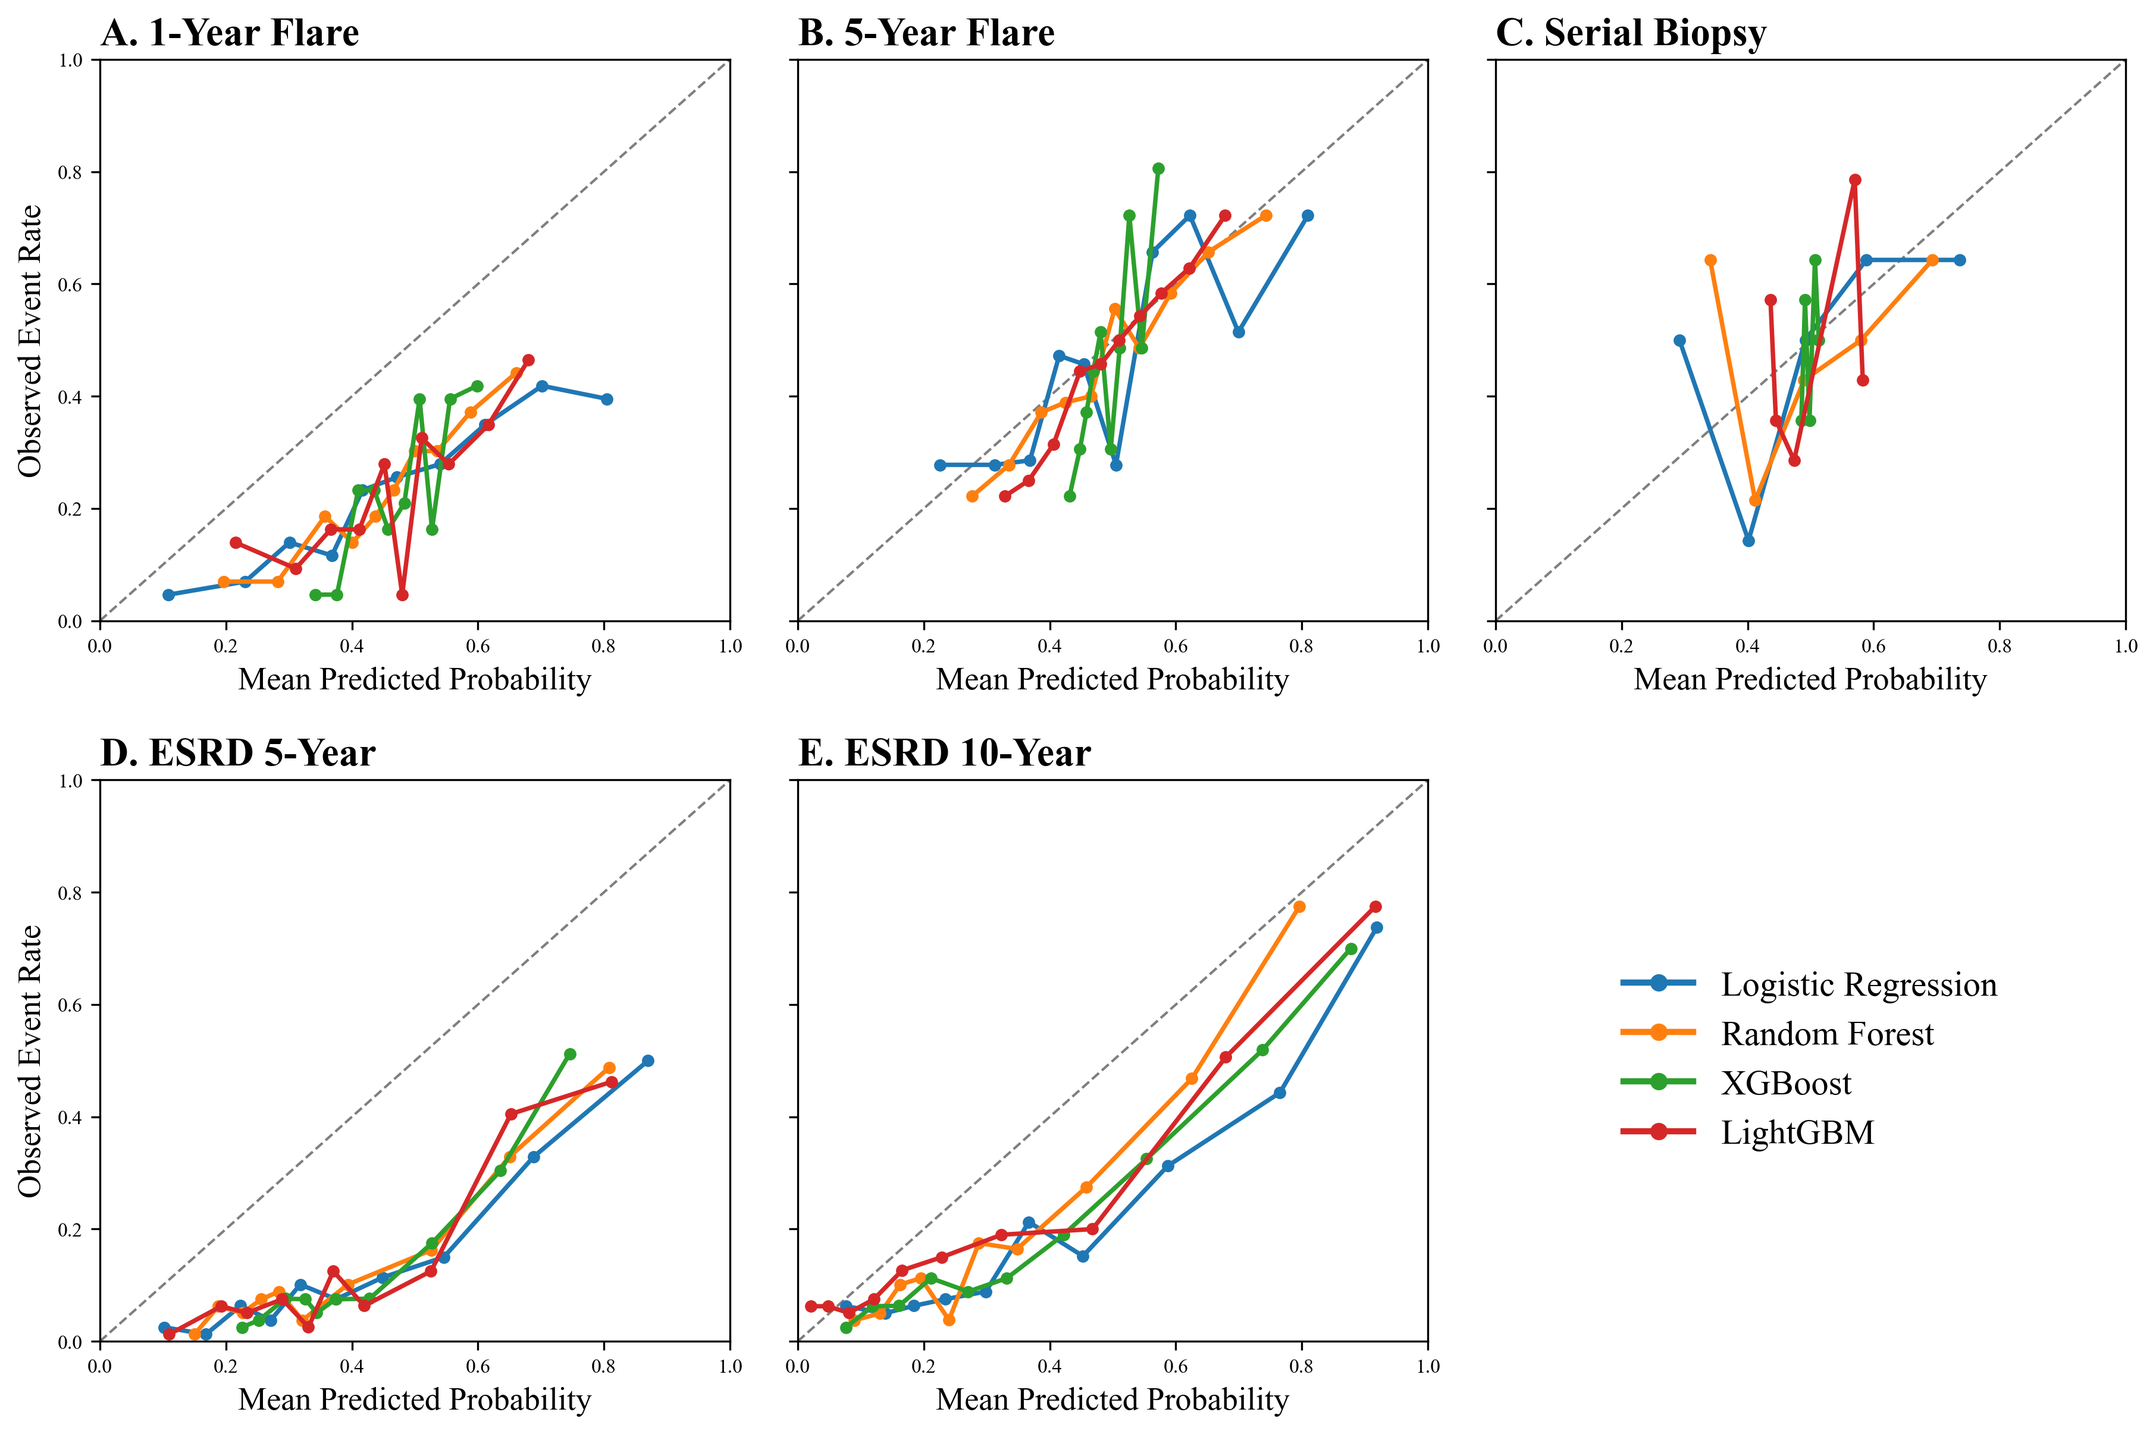
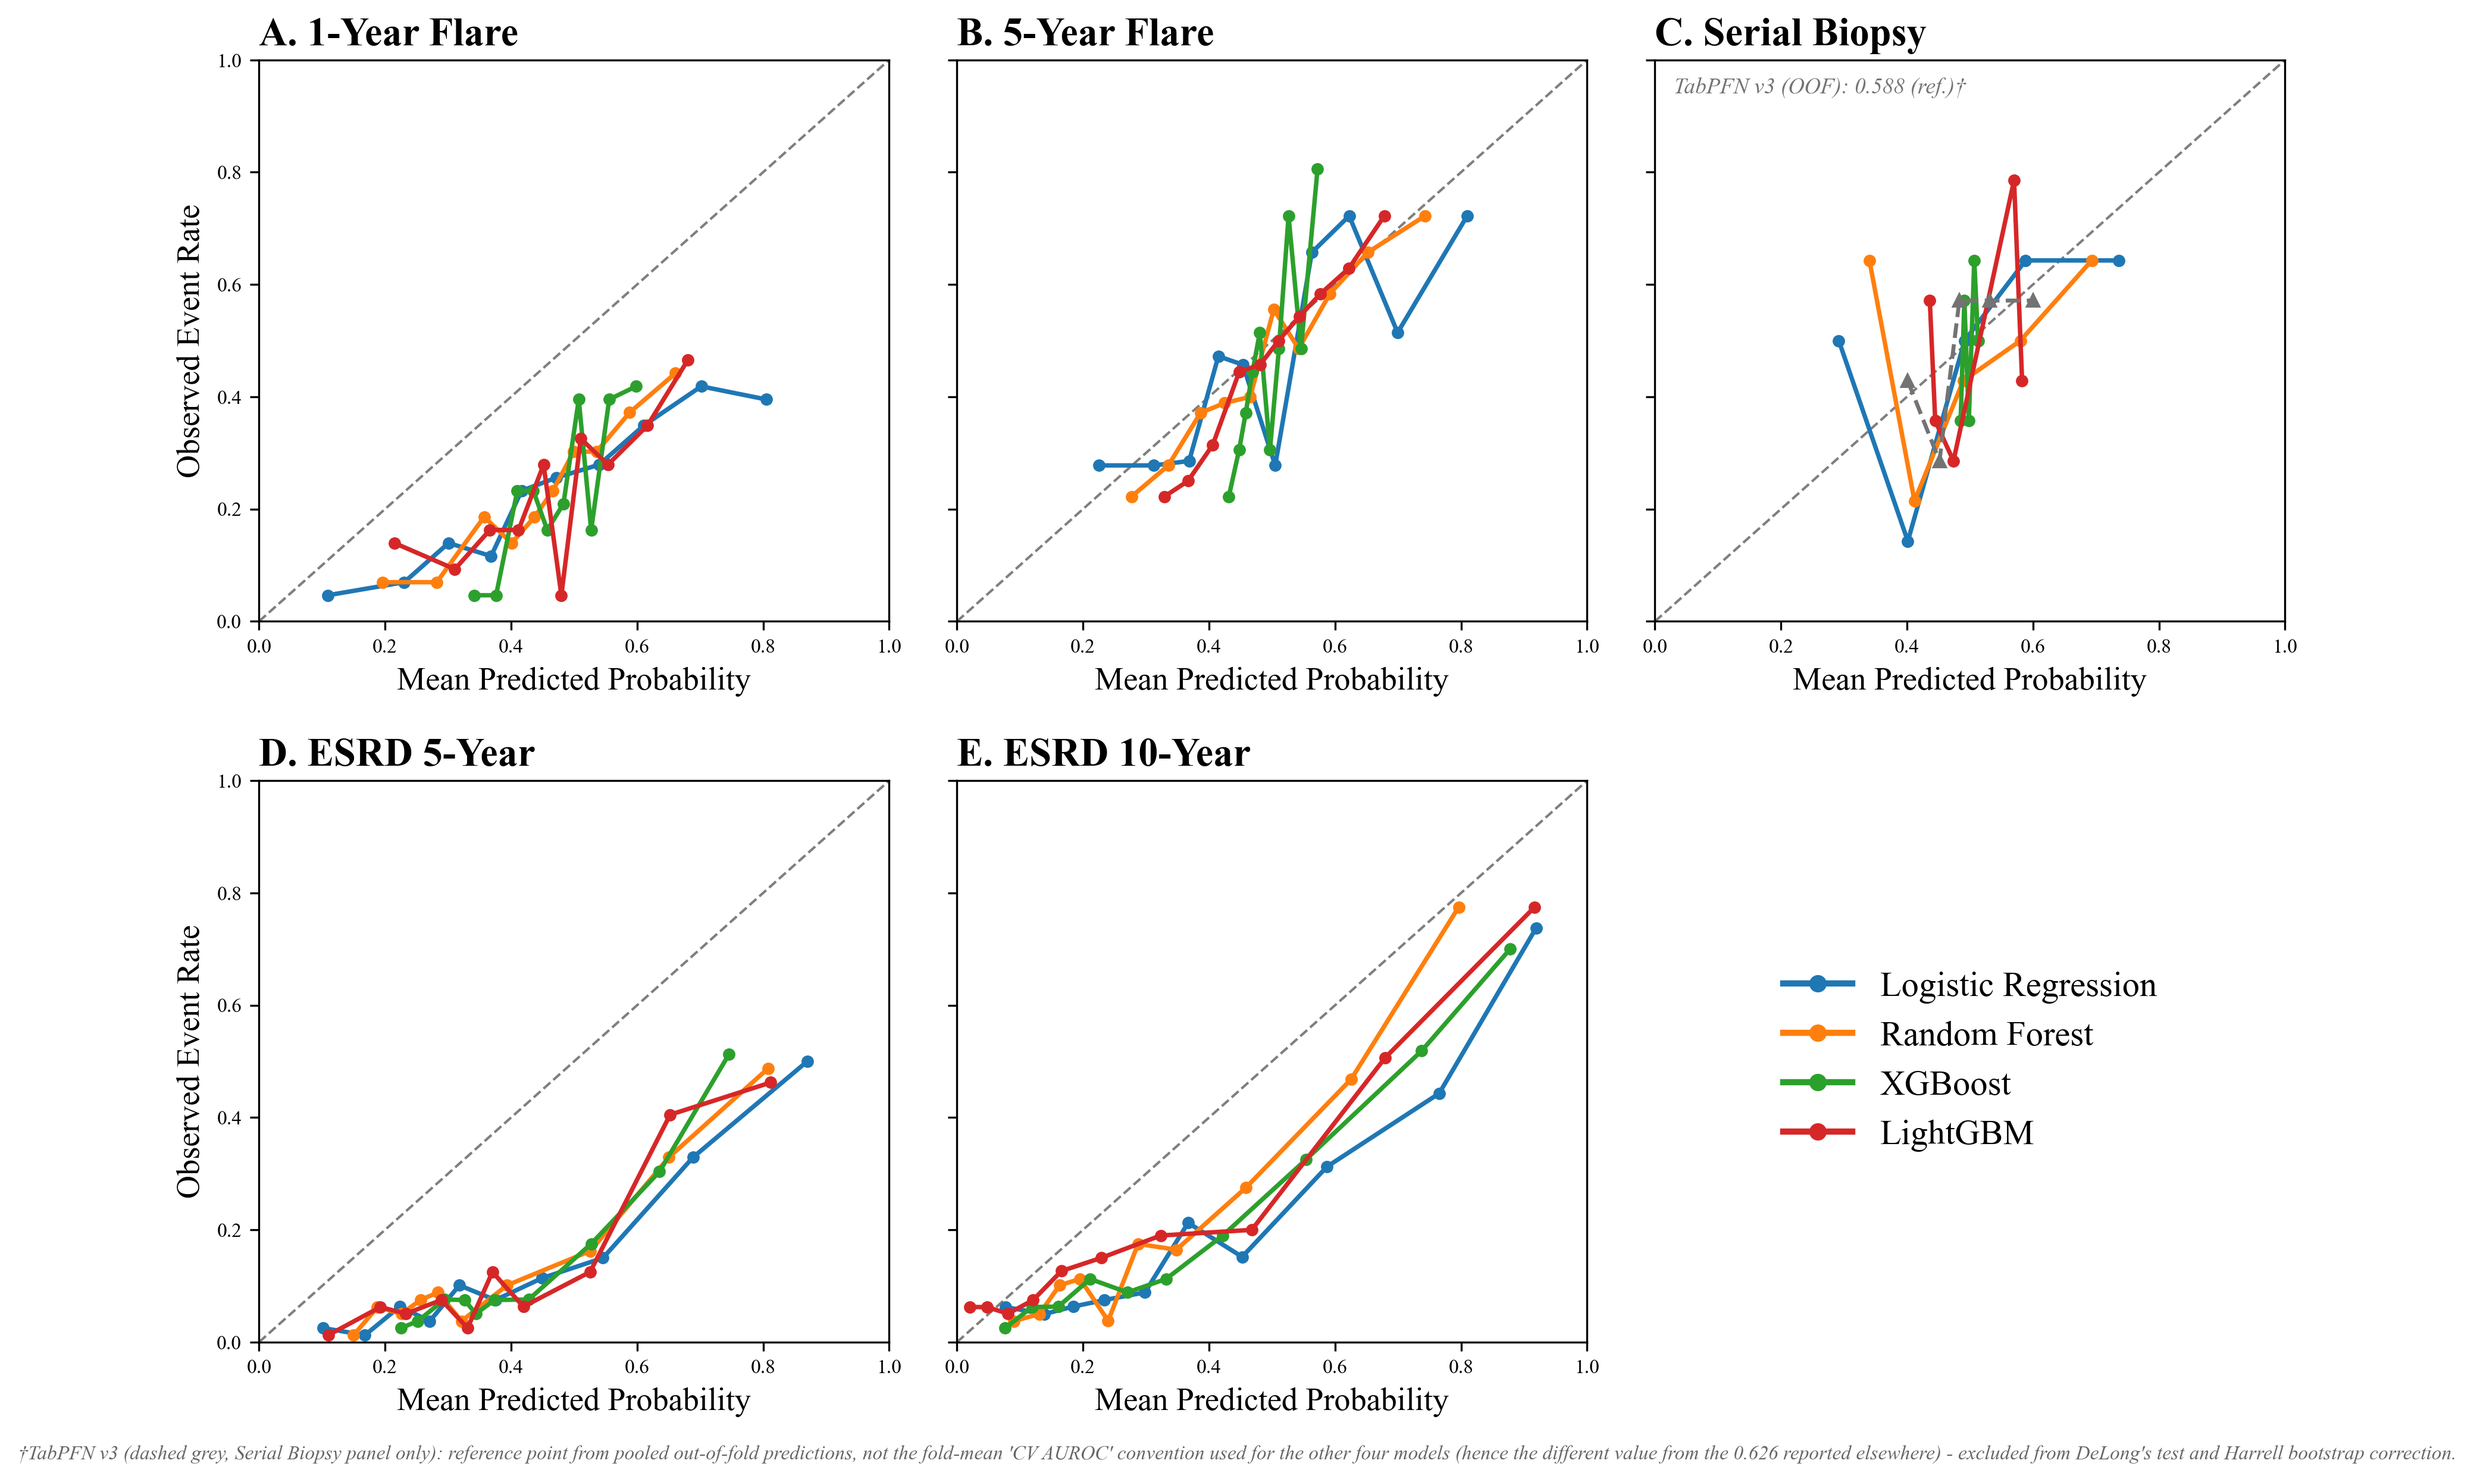
Add TabPFN v3 reference curve to Serial Biopsy panel (ROC + calibration)
Dashed grey, triangle markers, distinct from the 4 solid-colour model
lines. Built from pooled OOF predictions (the only cohort with raw
TabPFN v3 predictions retained) - labelled explicitly as OOF since this
differs from the fold-mean 'CV AUROC' convention used for the other four
models (0.588 here vs 0.626 reported in Methods/Results docs), with a
footnote explaining why. Also footnoted as excluded from DeLong's test
and Harrell bootstrap correction, consistent with its italic/reference
treatment in Tables 1 and 2.

diff --git a/src/16_roc_calibration_plots.py b/src/16_roc_calibration_plots.py
@@ -248,6 +248,31 @@ print("  Calibration_curves: decile-binned mean predicted prob vs observed event
 print("  OOF_predictions: raw out-of-fold probability + true label per sample, per model per cohort")
 print("  (for full flexibility if you want to build your own curves/thresholds)")
 
+# TabPFN v3: reference curves for Serial Biopsy only - the only cohort for
+# which raw OOF predictions were retained (src/16_tabpfn_v3_benchmark.py).
+# Excluded from DeLong's test and Harrell bootstrap (see Methods Section
+# 10.1), so it is drawn distinctly (dashed, grey) rather than as a normal
+# competitor, and is not added to the shared model-colour legend.
+TABPFN_COLOR = "0.45"
+tabpfn_serial = None
+try:
+    oof_tabpfn = pd.read_excel(f"{OUT}/tabpfn_v3_oof_predictions.xlsx")
+    oof_tabpfn = oof_tabpfn[oof_tabpfn["Cohort"] == "serial_biopsy"].sort_values("Sample_Index")
+    if len(oof_tabpfn):
+        y_true = oof_tabpfn["True_Label"].values
+        probs = oof_tabpfn["OOF_Predicted_Probability"].values
+        fpr_t, tpr_t, _ = roc_curve(y_true, probs)
+        auroc_t = roc_auc_score(y_true, probs)
+        try:
+            frac_pos_t, mean_pred_t = calibration_curve(y_true, probs, n_bins=5, strategy="quantile")
+        except ValueError:
+            frac_pos_t, mean_pred_t = calibration_curve(y_true, probs, n_bins=3, strategy="quantile")
+        tabpfn_serial = {"fpr": fpr_t, "tpr": tpr_t, "auroc": auroc_t,
+                          "mean_pred": mean_pred_t, "frac_pos": frac_pos_t}
+        print(f"\n[TabPFN v3 reference] Serial Biopsy: AUROC={auroc_t:.3f} (OOF, from live run)")
+except FileNotFoundError:
+    print("\n[TabPFN v3 reference] outputs/tabpfn_v3_oof_predictions.xlsx not found - skipping.")
+
 GRID_ROWS, GRID_COLS = 2, 3  # 5 cohort panels + 1 legend panel
 
 
@@ -275,6 +300,11 @@ for i, (c, res) in enumerate(zip(cohorts, all_results)):
     if c["label"] == "1-Year Flare":
         annot_lines.append("RF > LGBM (DeLong p=0.006*)")
 
+    if c["label"] == "Serial Biopsy" and tabpfn_serial is not None:
+        ax.plot(tabpfn_serial["fpr"], tabpfn_serial["tpr"], color=TABPFN_COLOR,
+                lw=1.6, linestyle="--")
+        annot_lines.append(f"TabPFN v3 (OOF): {tabpfn_serial['auroc']:.3f} (ref.)†")
+
     ax.text(0.97, 0.03, "\n".join(annot_lines), transform=ax.transAxes,
             fontsize=10.5, va="bottom", ha="right",
             bbox=dict(boxstyle="round,pad=0.3", facecolor="white", edgecolor="0.7", alpha=0.85))
@@ -295,6 +325,14 @@ legend_ax = axes_roc[legend_row, legend_col]
 legend_ax.axis("off")
 legend_handles = [plt.Line2D([0], [0], color=MODEL_COLORS[name], lw=2.5) for name in MODEL_ORDER]
 legend_ax.legend(legend_handles, MODEL_ORDER, loc="center", fontsize=14, frameon=False)
+
+if tabpfn_serial is not None:
+    fig_roc.text(0.5, -0.02, "†TabPFN v3 (dashed grey, Serial Biopsy panel only): reference point from "
+                 "pooled out-of-fold predictions, not the fold-mean 'CV AUROC' convention used for the other "
+                 "four models (hence the different value from the 0.626 reported elsewhere) - excluded from "
+                 "DeLong's test and Harrell bootstrap correction.",
+                 ha="center", fontsize=8, style="italic", color="0.4")
+
 fig_roc.savefig(f"{FIG_DIR}/roc_all_cohorts.png", dpi=300, bbox_inches="tight")
 plt.close(fig_roc)
 print(f"\nSaved: {FIG_DIR}/roc_all_cohorts.png")
@@ -316,6 +354,12 @@ for i, (c, res) in enumerate(zip(cohorts, all_results)):
             frac_pos, mean_pred = calibration_curve(c["y"], oof, n_bins=max(3, c["n_bins"] // 2), strategy="quantile")
         ax.plot(mean_pred, frac_pos, "o-", color=MODEL_COLORS[name], lw=1.8, markersize=4)
 
+    if c["label"] == "Serial Biopsy" and tabpfn_serial is not None:
+        ax.plot(tabpfn_serial["mean_pred"], tabpfn_serial["frac_pos"], "^--",
+                color=TABPFN_COLOR, lw=1.6, markersize=5)
+        ax.text(0.03, 0.97, f"TabPFN v3 (OOF): {tabpfn_serial['auroc']:.3f} (ref.)†", transform=ax.transAxes,
+                fontsize=9, va="top", ha="left", color=TABPFN_COLOR, style="italic")
+
     ax.set_xlim([0, 1]); ax.set_ylim([0, 1])
     ax.set_title(f"{PANEL_LETTERS[i]}. {c['label']}", fontsize=16, fontweight="bold", loc="left")
     ax.set_xlabel("Mean Predicted Probability", fontsize=13)
@@ -332,6 +376,13 @@ legend_ax = axes_cal[legend_row, legend_col]
 legend_ax.axis("off")
 legend_handles = [plt.Line2D([0], [0], color=MODEL_COLORS[name], lw=2.5, marker="o") for name in MODEL_ORDER]
 legend_ax.legend(legend_handles, MODEL_ORDER, loc="center", fontsize=14, frameon=False)
+
+if tabpfn_serial is not None:
+    fig_cal.text(0.5, -0.02, "†TabPFN v3 (dashed grey, Serial Biopsy panel only): reference point from "
+                 "pooled out-of-fold predictions, not the fold-mean 'CV AUROC' convention used for the other "
+                 "four models (hence the different value from the 0.626 reported elsewhere) - excluded from "
+                 "DeLong's test and Harrell bootstrap correction.",
+                 ha="center", fontsize=8, style="italic", color="0.4")
 
 fig_cal.savefig(f"{FIG_DIR}/calibration_all_cohorts.png", dpi=300, bbox_inches="tight")
 plt.close(fig_cal)
